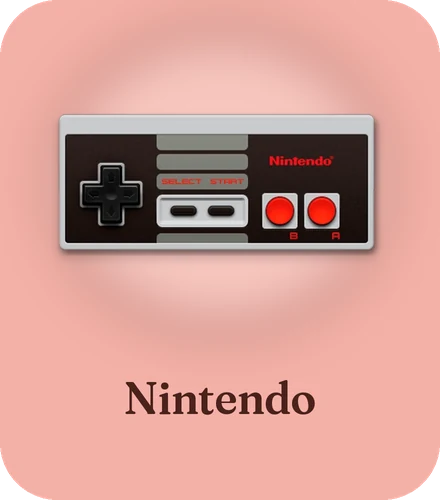
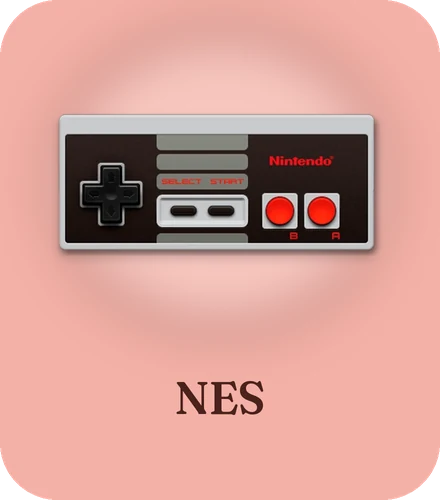
NES by name, a scraper that says why, left goes back in Setup
- The NES card and game list header said just "Nintendo" (Linear's name
  for it), which every Nintendo console could be. make_assets.py has a
  short list of overrides (NES), used for the tile and written into the
  console's pastel include as systemName. Only the NES files changed.
- Covers and info: "No games were scraped" now says nothing was found,
  that the service doesn't know the game, and what to do (rename it, or
  type the details in). With some found it says how many, and how many
  weren't. The progress screen's labels are in sentence case and sized
  to fit ("Publisher:" was cut off), and the console isn't in capitals.
- D-pad left from Setup's checklist and from the Emulators screen goes
  back to the settings rail, as B does.

Checked on a Steam Deck.

Changed region(s): [[0.2659, 0.75, 0.7386, 0.84]]

diff --git a/es-app/src/guis/GuiScraperMulti.cpp b/es-app/src/guis/GuiScraperMulti.cpp
@@ -242,11 +242,11 @@ void GuiScraperMulti::doNextSearch()
     if (mQueueCountPerSystem.size() > 1) {
         const int totalGameCount {mQueueCountPerSystem[mSearchQueue.front().system].second};
         const std::string gameCountText {_n("GAME", "GAMES", totalGameCount)};
-        mSystem->setText(Utils::String::toUpper(mSearchQueue.front().system->getFullName()) + " [" +
-                         std::to_string(totalGameCount) + " " + gameCountText + "]");
+        mSystem->setText(mSearchQueue.front().system->getFullName() + "  ·  " + std::to_string(totalGameCount) +
+                         " " + Utils::Localization::readable(gameCountText));
     }
     else {
-        mSystem->setText(Utils::String::toUpper(mSearchQueue.front().system->getFullName()));
+        mSystem->setText(mSearchQueue.front().system->getFullName());
     }
     std::string scrapeName;
 
@@ -282,7 +282,7 @@ void GuiScraperMulti::doNextSearch()
     ss.str("");
     const std::string gameCounterText {
         Utils::String::format(_("GAME %i OF %i"), mCurrentGame + 1, mTotalGames)};
-    ss << gameCounterText << " - " << folderPath << scrapeName
+    ss << Utils::Localization::readable(gameCounterText) << "  ·  " << folderPath << scrapeName
        << ((mSearchQueue.front().game->getType() == FOLDER) ? "  " + ViewController::FOLDER_CHAR :
                                                               "");
     mSubtitle->setText(ss.str());
@@ -325,7 +325,25 @@ void GuiScraperMulti::finish()
                          (mSearchQueue.empty() ? "finished" : "stopped"), "");
 
     std::stringstream ss;
-    if (mTotalSuccessful == 0) {
+    const std::string& locale {Utils::Localization::sCurrentLocale};
+    const bool english {locale.empty() || locale.substr(0, 2) == "en"};
+    const std::string service {Settings::getInstance()->getString("Scraper") == "thegamesdb" ? "TheGamesDB" :
+                                                                                               "ScreenScraper"};
+    if (english && mTotalSuccessful == 0 && mTotalSkipped > 0) {
+        // Arcadia: say why, and what can be done (the bare "No games were scraped" left people guessing).
+        ss << "Nothing was found for " << (mTotalSkipped == 1 ? "this game" : "these games") << ".\n\n"
+           << service << " doesn't know " << (mTotalSkipped == 1 ? "it" : std::to_string(mTotalSkipped) + " of them")
+           << ". Homebrew, hacks and translations are often missing, and a file named very differently from the game "
+              "can't be matched: rename it to the game's title and try again, or type the details in yourself "
+              "(View button → Edit this game's metadata).";
+    }
+    else if (english && mTotalSuccessful > 0) {
+        ss << "Covers and info added for " << mTotalSuccessful << (mTotalSuccessful == 1 ? " game." : " games.");
+        if (mTotalSkipped > 0)
+            ss << "\n\n" << mTotalSkipped << (mTotalSkipped == 1 ? " game wasn't" : " games weren't") << " found on "
+               << service << " (homebrew, hacks and renamed files often aren't listed).";
+    }
+    else if (mTotalSuccessful == 0) {
         ss << _("NO GAMES WERE SCRAPED");
     }
     else {

diff --git a/es-app/src/guis/GuiScraperSearch.cpp b/es-app/src/guis/GuiScraperSearch.cpp
@@ -93,7 +93,7 @@ GuiScraperSearch::GuiScraperSearch(SearchType type, unsigned int scrapeCount, in
     mMD_Rating = std::make_shared<RatingComponent>(false, true);
     mMD_ReleaseDate = std::make_shared<DateTimeEditComponent>();
     mMD_ReleaseDate->setColor(mdColor);
-    mMD_ReleaseDate->setUppercase(true);
+    mMD_ReleaseDate->setUppercase(false);
     mMD_Developer = std::make_shared<TextComponent>("", font, mdColor, ALIGN_LEFT);
     mMD_Publisher = std::make_shared<TextComponent>("", font, mdColor, ALIGN_LEFT);
     mMD_Genre = std::make_shared<TextComponent>("", font, mdColor, ALIGN_LEFT);
@@ -105,18 +105,18 @@ GuiScraperSearch::GuiScraperSearch(SearchType type, unsigned int scrapeCount, in
 
     if (mScrapeRatings)
         mMD_Pairs.push_back(MetaDataPair(
-            std::make_shared<TextComponent>(_("RATING:"), font, mdLblColor), mMD_Rating, false));
+            std::make_shared<TextComponent>(Utils::Localization::readable(_("RATING:")), font, mdLblColor), mMD_Rating, false));
 
     mMD_Pairs.push_back(MetaDataPair(
-        std::make_shared<TextComponent>(_("RELEASED:"), font, mdLblColor), mMD_ReleaseDate));
+        std::make_shared<TextComponent>(Utils::Localization::readable(_("RELEASED:")), font, mdLblColor), mMD_ReleaseDate));
     mMD_Pairs.push_back(MetaDataPair(
-        std::make_shared<TextComponent>(_("DEVELOPER:"), font, mdLblColor), mMD_Developer));
+        std::make_shared<TextComponent>(Utils::Localization::readable(_("DEVELOPER:")), font, mdLblColor), mMD_Developer));
     mMD_Pairs.push_back(MetaDataPair(
-        std::make_shared<TextComponent>(_("PUBLISHER:"), font, mdLblColor), mMD_Publisher));
+        std::make_shared<TextComponent>(Utils::Localization::readable(_("PUBLISHER:")), font, mdLblColor), mMD_Publisher));
     mMD_Pairs.push_back(
-        MetaDataPair(std::make_shared<TextComponent>(_("GENRE:"), font, mdLblColor), mMD_Genre));
+        MetaDataPair(std::make_shared<TextComponent>(Utils::Localization::readable(_("GENRE:")), font, mdLblColor), mMD_Genre));
     mMD_Pairs.push_back(MetaDataPair(
-        std::make_shared<TextComponent>(_("PLAYERS:"), font, mdLblColor), mMD_Players));
+        std::make_shared<TextComponent>(Utils::Localization::readable(_("PLAYERS:")), font, mdLblColor), mMD_Players));
 
     // If no rating is being scraped, add a filler to make sure that the fonts keep the same
     // size so the GUI looks consistent.
@@ -257,7 +257,9 @@ void GuiScraperSearch::resizeMetadata()
 {
     mMD_Grid->setSize(mGrid.getColWidth(2), mGrid.getRowHeight(1));
     if (mMD_Grid->getSize().y > mMD_Pairs.size()) {
-        const float fontHeight {mMD_Grid->getSize().y / mMD_Pairs.size() * 0.8f};
+        // (Arcadia: no bigger than the menus' small text, so a label such as "Publisher:" fits its column.)
+        const float fontHeight {std::min(mMD_Grid->getSize().y / mMD_Pairs.size() * 0.8f,
+                                         Font::get(FONT_SIZE_SMALL)->getHeight() * 0.9f)};
         auto fontLbl = Font::get(fontHeight, FONT_PATH_REGULAR);
         auto fontComp = Font::get(fontHeight, FONT_PATH_LIGHT);
 

diff --git a/themes/arcadia/tools/make_assets.py b/themes/arcadia/tools/make_assets.py
@@ -36,6 +36,9 @@ PASTELS = [
     ((0xD4, 0xCE, 0xE0), (0x2E, 0x2A, 0x3A)),  # cloud, for greys
 ]
 TILE = (440, 500)
+# Names that would be ambiguous on Arcadia's shelf of consoles (Linear calls the NES just "Nintendo", which is every
+# Nintendo console): the card and the game list's header use these instead.
+NAMES = {"nes": "NES"}
 def glow(color: tuple[int, int, int], size: int = 256) -> Image.Image:
     """A soft ellipse of light, brightest at the centre, fading to nothing before the edge."""
     img = Image.new("RGBA", (size, size), color + (0,))
@@ -150,7 +153,7 @@ def tile(name: str) -> Image.Image:
         img = Image.alpha_composite(img, shadow.filter(ImageFilter.GaussianBlur(W * 0.012)))
         img.alpha_composite(pic, (px, py))
         d = ImageDraw.Draw(img)
-    label = meta.get("systemName") or name
+    label = NAMES.get(name) or meta.get("systemName") or name
     font, lines = fit_text(d, label, int(W * 0.84), range(int(46 * s), int(26 * s), -2 * s))
     line_h = font.size * 1.12
     y = H * 0.79 - line_h * len(lines) / 2
@@ -224,14 +227,15 @@ def pastel_variables() -> None:
     out = ASSETS / "pastels"
     out.mkdir(exist_ok=True)
 
-    def xml(color: tuple[int, int, int], ink: tuple[int, int, int]) -> str:
+    def xml(color: tuple[int, int, int], ink: tuple[int, int, int], name: str = "") -> str:
         hexed = lambda c: "".join(f"{v:02x}" for v in c)
+        named = f"        <systemName>{name}</systemName>\n" if name else ""
         return (f"<theme>\n    <variables>\n        <systemPastel>{hexed(color)}</systemPastel>\n"
-                f"        <systemInk>{hexed(ink)}</systemInk>\n    </variables>\n</theme>\n")
+                f"        <systemInk>{hexed(ink)}</systemInk>\n{named}    </variables>\n</theme>\n")
 
     (out / "_default.xml").write_text(xml(*PASTELS[-1]))
     for f in sorted((ASSETS / "tiles").glob("*.webp")):
-        (out / f"{f.stem}.xml").write_text(xml(*pastel(f.stem)))
+        (out / f"{f.stem}.xml").write_text(xml(*pastel(f.stem), NAMES.get(f.stem, "")))
 
 
 def vectors() -> None:

diff --git a/es-app/src/guis/GuiEmulators.cpp b/es-app/src/guis/GuiEmulators.cpp
@@ -265,8 +265,8 @@ void GuiEmulators::render(const glm::mat4& parentTrans)
 
 bool GuiEmulators::input(InputConfig* config, Input input)
 {
-    if (input.value != 0 && config->isMappedTo("b", input)) {
-        close();
+    if (input.value != 0 && (config->isMappedTo("b", input) || config->isMappedTo("left", input))) {
+        close(); // (left goes back towards the settings rail, as B does)
         return true;
     }
     if (input.value != 0 && config->isMappedTo("x", input) && missingNeeded() > 0) {

diff --git a/es-app/src/guis/GuiSetup.cpp b/es-app/src/guis/GuiSetup.cpp
@@ -348,6 +348,10 @@ bool GuiSetup::input(InputConfig* config, Input input)
         setFocusColumn(0);
         return true;
     }
+    if (input.value != 0 && config->isMappedTo("left", input) && mColumn == 0) {
+        delete this; // (left of the checklist is the settings rail: the same as B)
+        return true;
+    }
     if (input.value != 0 && config->isMappedTo("right", input) && mColumn == 0) {
         setFocusColumn(1);
         return true;
